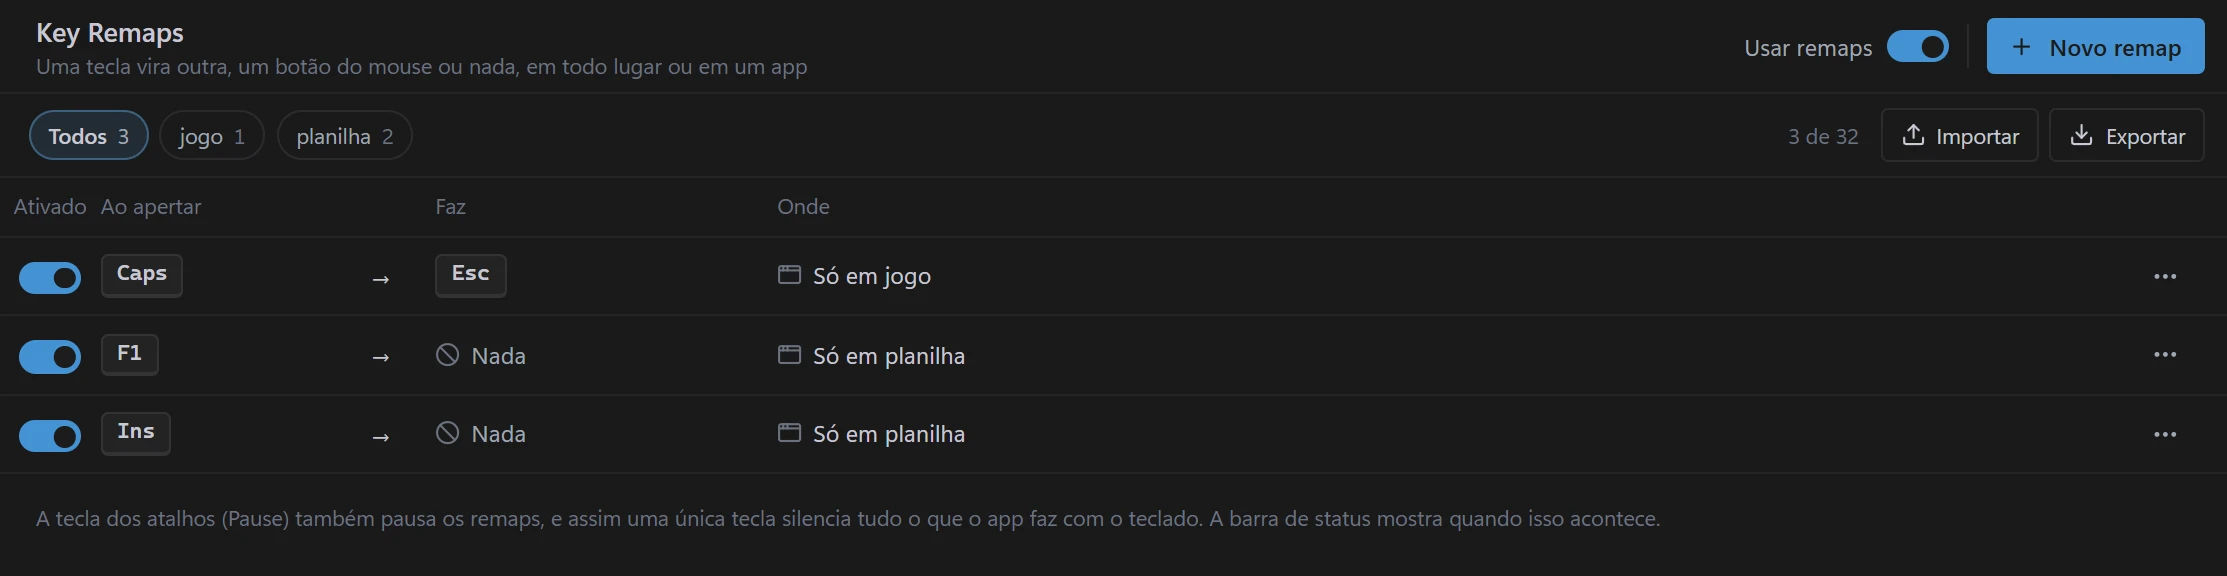
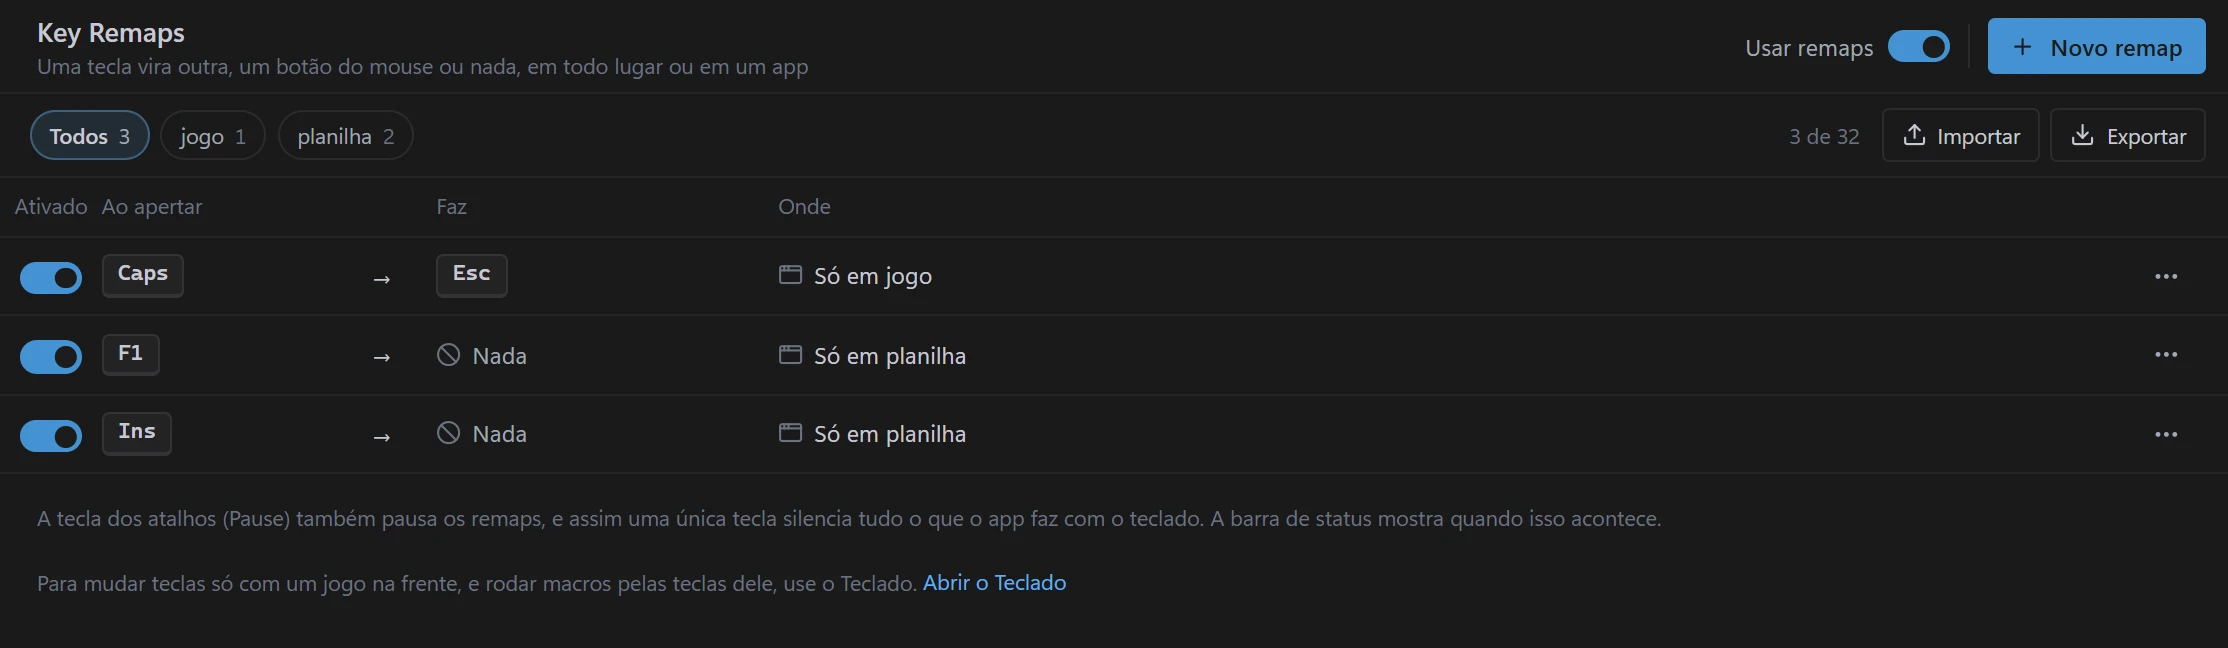
docs(manual): a 3.1.0, com o capítulo do Teclado
- O capítulo Teclado, entre Automações e Key Remaps: a foto da página (a tecla
  Q escolhida) e os passos, a Camada, a visão Mouse, o menu ⋯ e o clique
  direito num jogo, travar e exportar. O índice ganha o ícone do teclado.
- A foto de abertura de novo (o trilho com o Teclado e a barra de status com
  "Teclado ativado"), e a legenda do trilho diz seis áreas.
- A foto de Key Remaps de novo (a nota que leva ao Teclado).
- Problemas comuns: o aviso "Pasta indisponível".
- O rodapé na 3.1.0.

O conferidor passa com o catálogo da 3.1.0 (7b11eed): 11 de 11. A meta de peso
do HTML subiu de 100 para 104 KB com o capítulo novo (101,9 KB).

diff --git a/docs/manual.html b/docs/manual.html
@@ -243,6 +243,7 @@ code{font:.88em var(--font-mono);padding:.1em .35em;border-radius:5px;background
 <symbol id="i-list-checks" viewBox="0 0 24 24"><path d="M13 5h8"/><path d="M13 12h8"/><path d="M13 19h8"/><path d="m3 17 2 2 4-4"/><path d="m3 7 2 2 4-4"/></symbol>
 <symbol id="i-mouse-pointer-click" viewBox="0 0 24 24"><path d="M14 4.1 12 6"/><path d="m5.1 8-2.9-.8"/><path d="m6 12-1.9 2"/><path d="M7.2 2.2 8 5.1"/><path d="M9.037 9.69a.498.498 0 0 1 .653-.653l11 4.5a.5.5 0 0 1-.074.949l-4.349 1.041a1 1 0 0 0-.74.739l-1.04 4.35a.5.5 0 0 1-.95.074z"/></symbol>
 <symbol id="i-zap" viewBox="0 0 24 24"><path d="M4 14a1 1 0 0 1-.78-1.63l9.9-10.2a.5.5 0 0 1 .86.46l-1.92 6.02A1 1 0 0 0 13 10h7a1 1 0 0 1 .78 1.63l-9.9 10.2a.5.5 0 0 1-.86-.46l1.92-6.02A1 1 0 0 0 11 14z"/></symbol>
+<symbol id="i-keyboard" viewBox="0 0 24 24"><path d="M10 8h.01"/><path d="M12 12h.01"/><path d="M14 8h.01"/><path d="M16 12h.01"/><path d="M18 8h.01"/><path d="M6 8h.01"/><path d="M7 16h10"/><path d="M8 12h.01"/><rect width="20" height="16" x="2" y="4" rx="2"/></symbol>
 <symbol id="i-arrow-right-left" viewBox="0 0 24 24"><path d="m16 3 4 4-4 4"/><path d="M20 7H4"/><path d="m8 21-4-4 4-4"/><path d="M4 17h16"/></symbol>
 <symbol id="i-settings" viewBox="0 0 24 24"><path d="M9.671 4.136a2.34 2.34 0 0 1 4.659 0 2.34 2.34 0 0 0 3.319 1.915 2.34 2.34 0 0 1 2.33 4.033 2.34 2.34 0 0 0 0 3.831 2.34 2.34 0 0 1-2.33 4.033 2.34 2.34 0 0 0-3.319 1.915 2.34 2.34 0 0 1-4.659 0 2.34 2.34 0 0 0-3.32-1.915 2.34 2.34 0 0 1-2.33-4.033 2.34 2.34 0 0 0 0-3.831A2.34 2.34 0 0 1 6.35 6.051a2.34 2.34 0 0 0 3.319-1.915"/><circle cx="12" cy="12" r="3"/></symbol>
 <symbol id="i-book-open" viewBox="0 0 24 24"><path d="M12 7v14"/><path d="M3 18a1 1 0 0 1-1-1V4a1 1 0 0 1 1-1h5a4 4 0 0 1 4 4 4 4 0 0 1 4-4h5a1 1 0 0 1 1 1v13a1 1 0 0 1-1 1h-6a3 3 0 0 0-3 3 3 3 0 0 0-3-3z"/></symbol>
@@ -286,6 +287,7 @@ code{font:.88em var(--font-mono);padding:.1em .35em;border-radius:5px;background
     <li class="ix-li"><a class="ix-ch" href="#p3"><svg class="i" aria-hidden="true"><use href="#i-list-plus"/></svg>O que cabe numa macro</a></li>
     <li class="ix-li"><a class="ix-ch" href="#p4"><svg class="i" aria-hidden="true"><use href="#i-mouse-pointer-click"/></svg>Clicker</a></li>
     <li class="ix-li"><a class="ix-ch" href="#p5"><svg class="i" aria-hidden="true"><use href="#i-zap"/></svg>Automações</a></li>
+    <li class="ix-li"><a class="ix-ch" href="#teclado"><svg class="i" aria-hidden="true"><use href="#i-keyboard"/></svg>Teclado</a></li>
     <li class="ix-li"><a class="ix-ch" href="#p6"><svg class="i" aria-hidden="true"><use href="#i-arrow-right-left"/></svg>Key Remaps</a></li>
     <li class="ix-li"><a class="ix-ch" href="#p7"><svg class="i" aria-hidden="true"><use href="#i-settings"/></svg>Configurações</a></li>
     <li class="ix-li"><a class="ix-ch" href="#p8"><svg class="i" aria-hidden="true"><use href="#i-book-open"/></svg>Exemplos</a></li>
@@ -319,7 +321,7 @@ code{font:.88em var(--font-mono);padding:.1em .35em;border-radius:5px;background
   </div></div>
 </figure>
 <ol class="legend">
-  <li><span><b>O trilho</b>: as cinco áreas do app, de <strong>Macros</strong> a <strong>Configurações</strong>.</span></li>
+  <li><span><b>O trilho</b>: as seis áreas do app, de <strong>Macros</strong> a <strong>Configurações</strong>.</span></li>
   <li><span><b>A biblioteca</b>: suas macros, em pastas. As <strong>Fixadas</strong> ficam no topo.</span></li>
   <li><span><b>A lista de passos</b> da macro aberta: um passo por linha, de cima para baixo.</span></li>
   <li><span><b>O Inspector</b>: os detalhes do passo selecionado. O que você muda ali é salvo sozinho.</span></li>
@@ -898,6 +900,31 @@ code{font:.88em var(--font-mono);padding:.1em .35em;border-radius:5px;background
   <p>As automações rodam com o app aberto, mesmo escondido na bandeja. Se outra macro estiver rodando, o disparo espera um pouco e depois é pulado. <strong>Atividade</strong> mostra os disparos e os pulados.</p>
 </section>
 
+<section class="ch" id="teclado" aria-labelledby="teclado-t">
+  <h2 id="teclado-t"><svg class="i" aria-hidden="true"><use href="#i-keyboard"/></svg>Teclado</h2>
+  <p>No Teclado, cada jogo tem as teclas dele. Com o .exe do jogo na frente, a tecla faz o que você escolheu. Fora do jogo, nada muda.</p>
+  <figure class="shot" data-shot="teclado" style="--w:1114px">
+    <div class="shot-mat"><div class="shot-frame">
+      <button class="shot-open" type="button" aria-label="Ampliar a imagem: a página Teclado">
+        <picture>
+          <source data-tema="claro" srcset="img/tr3/teclado-claro.webp" media="(prefers-color-scheme: light)">
+          <img src="img/tr3/teclado-escuro.webp" width="2228" height="1410" loading="lazy" alt="A página Teclado com o jogo Jogo aberto: a lista de jogos à esquerda, o desenho do teclado com as teclas coloridas pela função e, à direita, a tecla Q, que manda a tecla 1.">
+        </picture>
+      </button>
+    </div></div>
+  </figure>
+  <ol class="steps">
+    <li>Em <strong>Teclado</strong>, clique em <strong>Adicionar</strong> e escolha o jogo pelo .exe dele.</li>
+    <li>Clique numa tecla do desenho. No painel, escolha a função: <strong>Outra tecla</strong>, <strong>Mouse</strong>, <strong>Macro</strong>, <strong>Texto</strong>, <strong>Desligar</strong> ou <strong>Camada</strong>.</li>
+    <li>Abra o jogo. Com ele na frente, a tecla faz o que você escolheu.</li>
+  </ol>
+  <p>A <strong>Camada</strong> é uma tecla que você segura. Enquanto ela está apertada, as teclas usam as funções da <strong>Camada</strong>, e não as da <strong>Base</strong>.</p>
+  <p>Na visão <strong>Mouse</strong>, o botão do meio, os laterais e a roda também ganham funções.</p>
+  <p><strong>Usar</strong> liga e desliga o jogo. O ⋯ do jogo, ou o clique direito nele na lista, tem <strong>Renomear</strong>, <strong>Adicionar outro .exe</strong>, <strong>Travar neste jogo</strong>, <strong>Importar…</strong> e <strong>Excluir</strong>.</p>
+  <p>Travado, o jogo vale com qualquer janela na frente, menos a do app, até você destravar ou fechar o app. <strong>Exportar</strong> grava o jogo e as macros que ele usa num arquivo só.</p>
+  <p>Uma tecla sem função no jogo segue os Key Remaps. Uma tecla com função ganha do remap enquanto o jogo está na frente.</p>
+</section>
+
 <section class="ch" id="p6" aria-labelledby="p6-t">
   <h2 id="p6-t"><svg class="i" aria-hidden="true"><use href="#i-arrow-right-left"/></svg>Key Remaps</h2>
   <p>Um remap faz uma tecla virar outra, um botão do mouse ou nada, em todo lugar ou num app só.</p>
@@ -906,7 +933,7 @@ code{font:.88em var(--font-mono);padding:.1em .35em;border-radius:5px;background
       <button class="shot-open" type="button" aria-label="Ampliar a imagem: a página Key Remaps">
         <picture>
           <source data-tema="claro" srcset="img/tr3/remaps-claro.webp" media="(prefers-color-scheme: light)">
-          <img src="img/tr3/remaps-escuro.webp" width="2228" height="576" loading="lazy" alt="A página Key Remaps com três remaps: Caps vira Esc só no app jogo, e F1 e Ins não fazem nada só no app planilha.">
+          <img src="img/tr3/remaps-escuro.webp" width="2228" height="648" loading="lazy" alt="A página Key Remaps com três remaps: Caps vira Esc só no app jogo, e F1 e Ins não fazem nada só no app planilha.">
         </picture>
       </button>
     </div></div>
@@ -1145,6 +1172,7 @@ code{font:.88em var(--font-mono);padding:.1em .35em;border-radius:5px;background
       <tr><td>A macro clica no lugar errado depois que a janela mudou de lugar</td><td>Defina a <strong>Janela-alvo</strong> da macro e ligue <strong>Coordenadas relativas</strong>. Para marcar um ponto de novo, use <strong>Escolher na tela</strong>, no botão direito do passo.</td></tr>
       <tr><td>Fechei a janela e o app continua aberto</td><td>O X esconde o app na bandeja. Para sair, use o ícone da bandeja.</td></tr>
       <tr><td>A macro parou com erro</td><td>O <strong>Run Report</strong> mostra o passo e o motivo. <strong>Rodar de novo</strong> repete.</td></tr>
+      <tr><td>Ao abrir, o aviso <strong>Pasta indisponível</strong></td><td>A pasta em que o app guarda os dados não pode ser usada. Confira se ela, ou o OneDrive ou a unidade de rede em que ela fica, está disponível e abra o app de novo.</td></tr>
     </tbody>
   </table>
 </section>
@@ -1159,7 +1187,7 @@ code{font:.88em var(--font-mono);padding:.1em .35em;border-radius:5px;background
 <footer class="foot">
   <svg class="logo" aria-hidden="true"><use href="#marca"/></svg>
   <div>
-    <p class="footer-note"><b>Manual do TrueReplayer 3</b> · versão 3.0.4 · novembro de 2026. Passos, condições, tokens e teclas aparecem em inglês, como no app.</p>
+    <p class="footer-note"><b>Manual do TrueReplayer 3</b> · versão 3.1.0 · novembro de 2026. Passos, condições, tokens e teclas aparecem em inglês, como no app.</p>
     <p><a href="manual-tr2.html">Manual do TrueReplayer 2</a> · <a href="https://github.com/fatalihue/TrueReplayer-releases/releases/latest">Baixar o TrueReplayer 3</a></p>
   </div>
 </footer>
